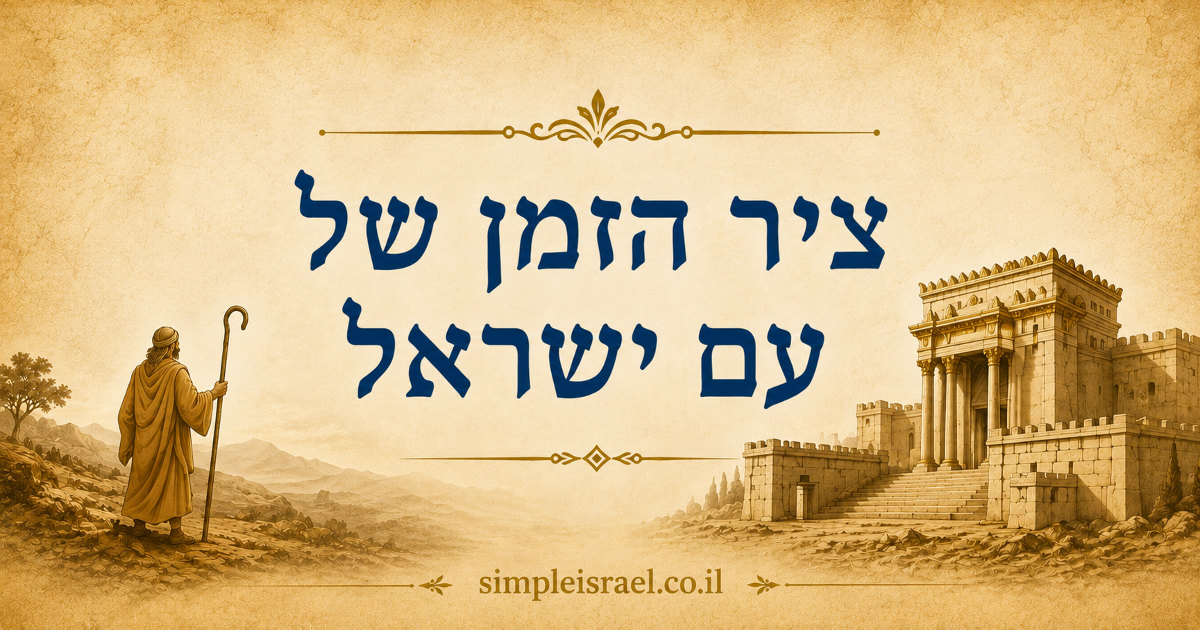
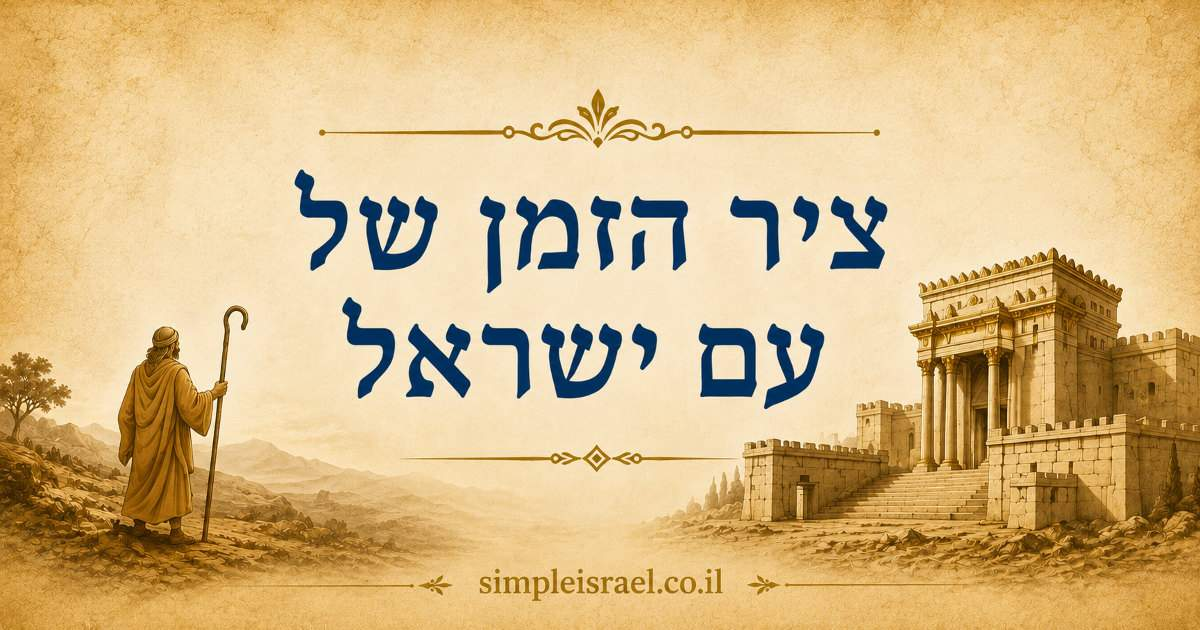
תמונת השיתוף של דף הבית: דחיסה ל-90KB, כי וואטסאפ לא הציג אותה
קישור לדף הבית (simpleisrael.co.il/?src=channel) עלה בוואטסאפ בלי תמונה,
בזמן שכרטיסי הדמויות (~88KB) מוצגים. התגיות תקינות - ההבדל היחיד הוא
המשקל: 228KB, ווואטסאפ ידוע כמוותר על תמונות כבדות. אותה תמונה ב-91KB,
בלי הבדל נראה לעין. ?v=2 בכתובת כדי שוואטסאפ יביא אותה מחדש ולא
מהמטמון, ונוספו og:image:type/secure_url/alt.

Claude-Session: https://claude.ai/code/session_01JSL67qZw1B8S6hgp2Gobg3

diff --git a/index.html b/index.html
@@ -25,7 +25,12 @@
     <meta property="og:title" content="ציר הזמן של עם ישראל" />
     <meta property="og:description" content="מהאבות ועד חורבן בית שני - מלכים, נביאים, ספרי תנ״ך ואירועים על ציר זמן אחד." />
     <meta property="og:url" content="https://simpleisrael.co.il/" />
-    <meta property="og:image" content="https://simpleisrael.co.il/og-image.jpg" />
+    <!-- התמונה דחוסה ל-~90KB: ב-228KB וואטסאפ הציג את הקישור בלי תמונה (כרטיסי
+         הדמויות, ~88KB, הוצגו). ?v=2 כדי שוואטסאפ יביא אותה מחדש ולא מהמטמון. -->
+    <meta property="og:image" content="https://simpleisrael.co.il/og-image.jpg?v=2" />
+    <meta property="og:image:secure_url" content="https://simpleisrael.co.il/og-image.jpg?v=2" />
+    <meta property="og:image:type" content="image/jpeg" />
+    <meta property="og:image:alt" content="ציר הזמן של עם ישראל" />
     <meta property="og:image:width" content="1200" />
     <meta property="og:image:height" content="630" />
     <meta property="og:locale" content="he_IL" />
@@ -34,7 +39,7 @@
     <meta name="twitter:card" content="summary_large_image" />
     <meta name="twitter:title" content="ציר הזמן של עם ישראל" />
     <meta name="twitter:description" content="מהאבות ועד חורבן בית שני - מלכים, נביאים, ספרי תנ״ך ואירועים על ציר זמן אחד." />
-    <meta name="twitter:image" content="https://simpleisrael.co.il/og-image.jpg" />
+    <meta name="twitter:image" content="https://simpleisrael.co.il/og-image.jpg?v=2" />
   </head>
   <body>
     <div id="root"></div>
